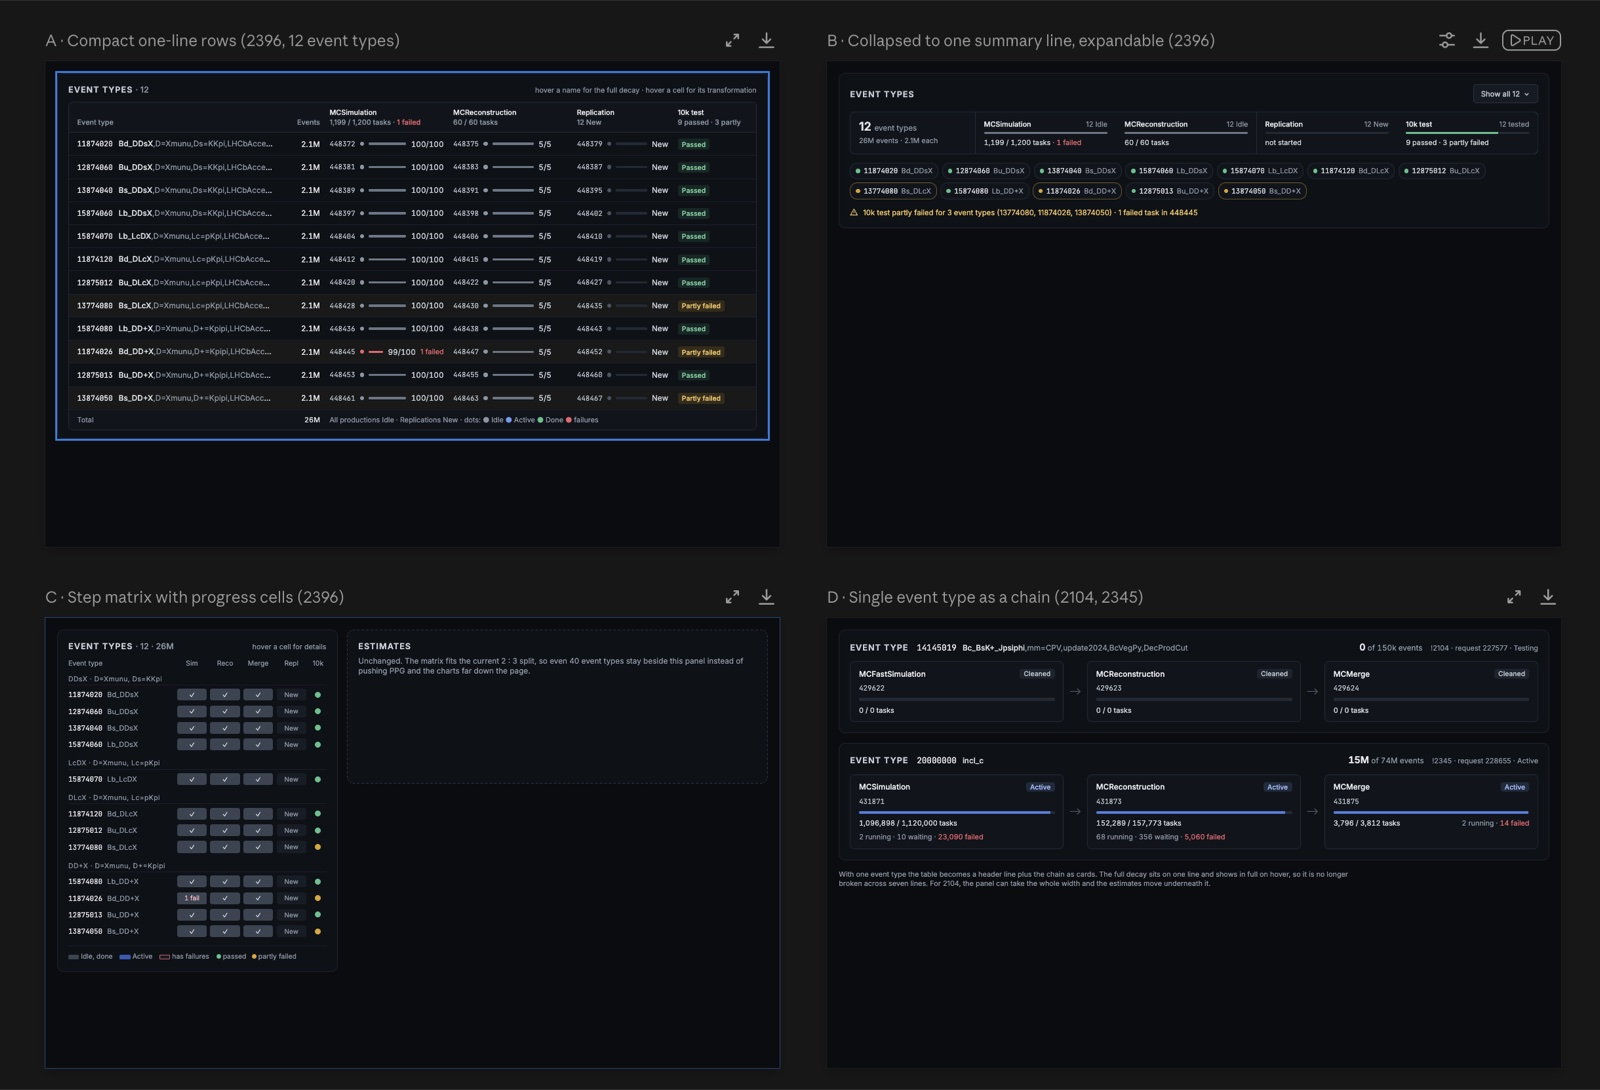
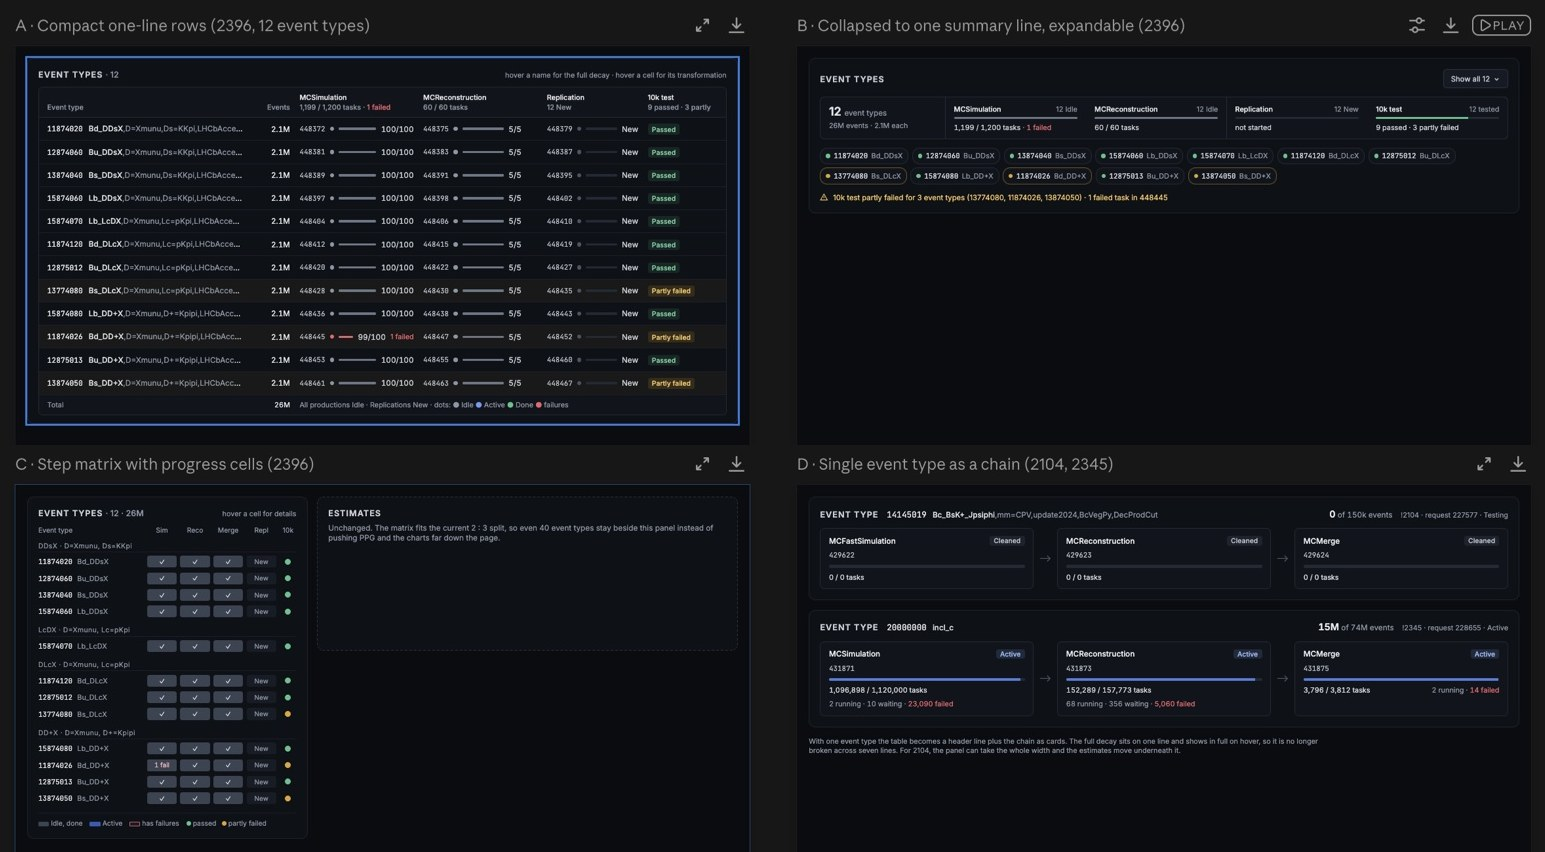
fix(ai-for-coding): stack artifacts slide and trim mockup screenshot

Changed region(s): [[0.0, 0.0305, 0.4971, 0.9765], [0.5282, 0.5188, 0.9631, 0.885], [0.5282, 0.0, 0.9942, 0.2441]]

diff --git a/2026-11-11-ai-for-coding/slides.md b/2026-11-11-ai-for-coding/slides.md
@@ -399,22 +399,13 @@ $ glab mr view 1234 --comments
 
 # Tools: artifacts
 
-<div class="cols" style="grid-template-columns: 2fr 3fr">
-<div>
-
 - **Artifacts:** small web pages for reports, mockups and plots
     - My investigations end up as a page I can share, not a wall of text
 
-</div>
-<div>
-
 <figure>
-  <img src="assets/artifact-mockups.jpg" alt="Four mockup layouts (A to D) for showing the event types of an MC request" style="max-height: 480px">
+  <img src="assets/artifact-mockups.jpg" alt="Four mockup layouts (A to D) for showing the event types of an MC request" style="height: 400px; max-height: none">
   <figcaption>Four mockups for one panel of a page about MC requests</figcaption>
 </figure>
-
-</div>
-</div>
 
 ---
 
